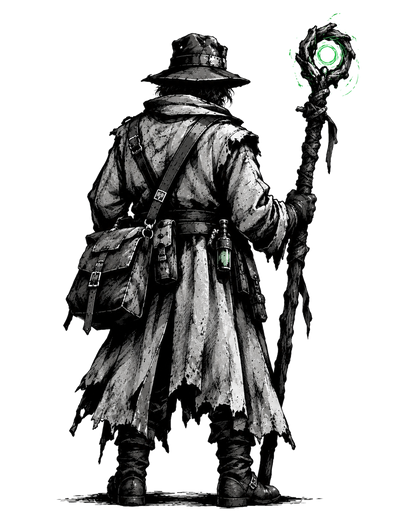
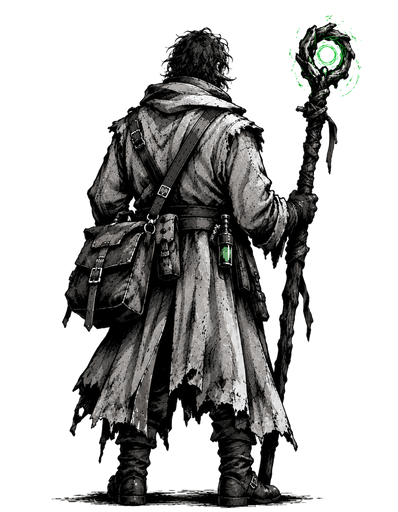
High-res Pythio idle without the hat, matching the casting poses
Part of #34

Claude-Session: https://claude.ai/code/session_01BFmxdffuM8zTEtWCti1mUq

Changed region(s): [[0.1508, 0.0312, 0.8442, 1.0], [0.7538, 0.0312, 0.9045, 0.1562]]

diff --git a/tools/art/cutout_white_bg.py b/tools/art/cutout_white_bg.py
@@ -6,7 +6,7 @@ import sys, numpy as np
 from PIL import Image, ImageFilter
 from scipy import ndimage
 A="/mnt/user-data/attachments/509c1316-aafa-55b0-a4af-a6fea7c3d593/"
-src={"idle":"9644192d","cast_shield":"cc676e6a","cast_heal":"4fb1b94c","cast_hot":"7ba4ad21"}
+src={"idle":"0dedf9f1","cast_shield":"cc676e6a","cast_heal":"4fb1b94c","cast_hot":"7ba4ad21"}
 out=sys.argv[1]
 imgs={k:np.array(Image.open(A+v+"-image.png").convert("RGB"))[:1428,:1101] for k,v in src.items()}
 # one shared crop window for every pose, so Pythio stands in the same spot in all of them
